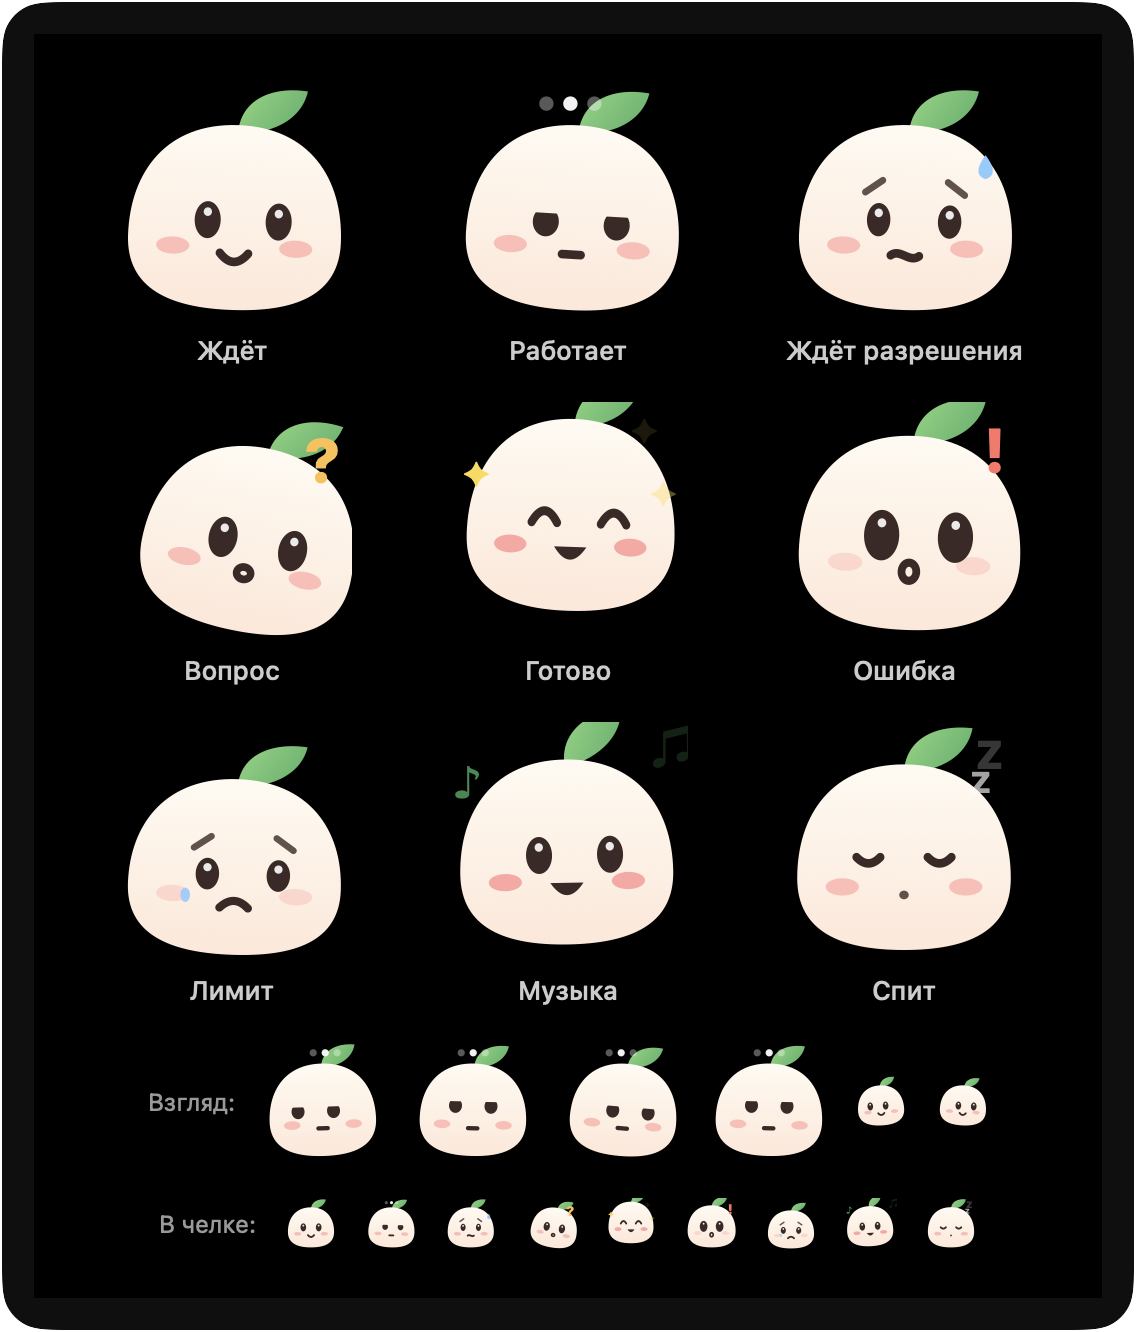
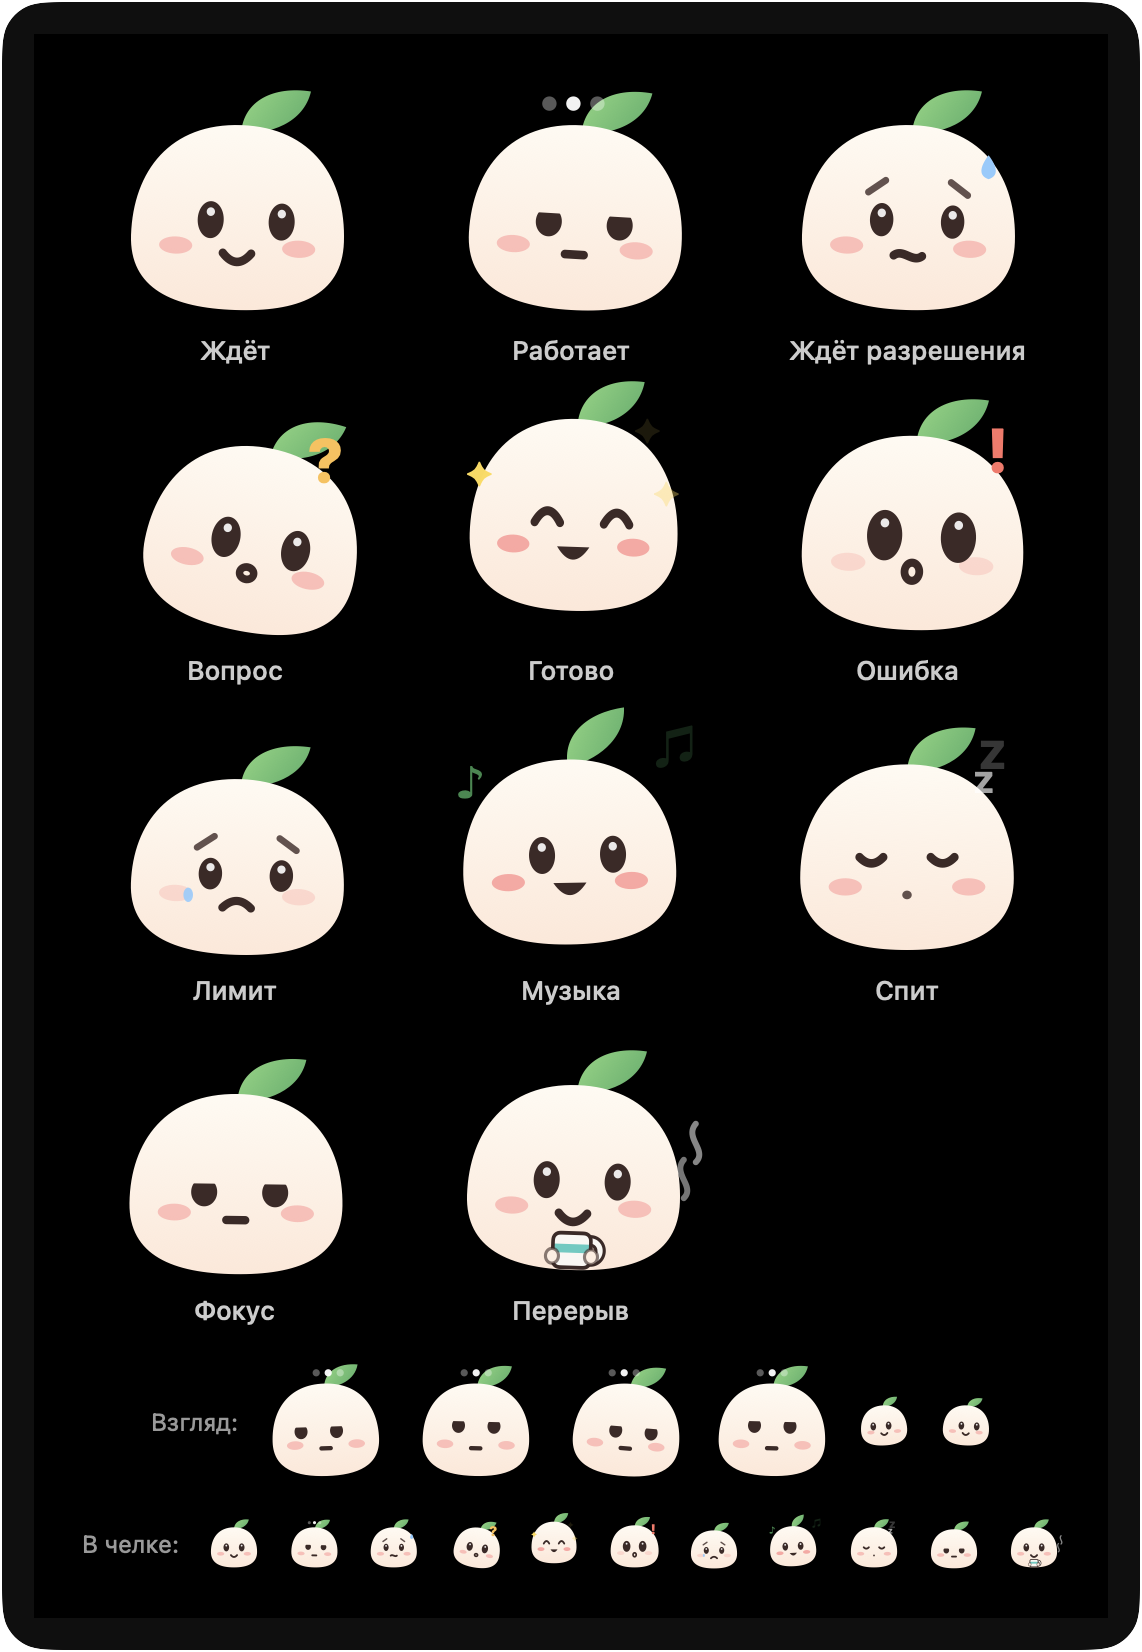
feat(Focus): Позы «Фокус» и «Перерыв»

diff --git a/Sources/MelyUI/Character/MelyCharacter.swift b/Sources/MelyUI/Character/MelyCharacter.swift
@@ -398,6 +398,7 @@ struct CharacterDrawing {
             for slot in [AccessorySlot.neck, .eyes, .head, .held] {
                 if let item = outfit[slot] { AccessoryDrawing.draw(item, pen, r, anchors, t: t) }
             }
+            if pose == .resting { drawMug(pen, r) }
         }
         if dizzy { drawDizzyStars(pen, r) } else { drawExtras(pen, r) }
         if let emote, emote.kind == .party { drawConfetti(pen, r, emote.progress(t)) }
@@ -443,8 +444,8 @@ struct CharacterDrawing {
 
     private func motion() -> Motion {
         var m = Motion()
-        // Leans a little towards the pointer, so a glance reads even when tiny.
-        if pose != .sleeping { m.tilt = 3.3 * clampedGaze.x }
+        // Leans a little towards the pointer, so a glance reads even when tiny; focused, less.
+        if pose != .sleeping { m.tilt = 3.3 * clampedGaze.x * (pose == .focused ? 0.4 : 1) }
         let breath = sin(t * 2 * .pi / (pose == .sleeping ? 4.5 : 3.2))
         m.sy = 1 + 0.03 * breath * (pose == .sleeping ? 1.4 : 1)
         m.sx = 1 - 0.015 * breath
@@ -470,6 +471,20 @@ struct CharacterDrawing {
             m.dy = 0.02
         case .working:
             m.tilt += 1.5 * sin(t * 2 * .pi * 0.5)
+        case .focused:
+            // A slow nod every 9 s: still there, at work.
+            let n = t.truncatingRemainder(dividingBy: 9)
+            if n < 0.9 {
+                let k = sin(n / 0.9 * .pi)
+                m.dy += 0.02 * k
+                m.sy *= 1 - 0.03 * k
+            }
+        case .resting:
+            if stretch > 0 {
+                m.sy *= 1 + 0.09 * stretch
+                m.sx *= 1 - 0.05 * stretch
+                m.dy -= 0.02 * stretch
+            }
         case .idle, .sleeping:
             break
         }
@@ -497,6 +512,34 @@ struct CharacterDrawing {
     }
 
     private var dizzy: Bool { emote?.kind == .dizzy }
+
+    /// On a break, a stretch every 20 s: 0 … 1 … 0 over two seconds.
+    private var stretch: Double {
+        // Halfway through the cycle at t = 0: the first stretch comes a while after the break begins.
+        let s = (t + 10).truncatingRemainder(dividingBy: 20)
+        return s < 2 ? sin(s / 2 * .pi) : 0
+    }
+
+    /// A mug of tea held in front, a band in the rest colour; steam rises in `drawExtras`.
+    private func drawMug(_ pen: Pen, _ r: CGRect) {
+        let lw = r.width * 0.022
+        let cup = Self.rgb(0.98, 0.97, 0.95), band = Self.rgb(0.3, 0.8, 0.76)
+        let body = rect(r, 0.42, 0.8, 0.16, 0.14)
+        var handle = Path()
+        handle.addEllipse(in: rect(r, 0.54, 0.83, 0.08, 0.08))
+        pen.stroke(handle, Self.ink, width: lw * 2.2)
+        pen.stroke(handle, cup, width: lw)
+        let shape = Path(roundedRect: body, cornerRadius: r.width * 0.03)
+        pen.fill(shape, cup)
+        pen.fill(Path(rect(r, 0.42, 0.845, 0.16, 0.035)), band)
+        pen.stroke(shape, Self.ink, width: lw * 0.7)
+        // Paws round the mug.
+        for x in [0.39, 0.555] {
+            let paw = Path(ellipseIn: rect(r, x, 0.865, 0.055, 0.06))
+            pen.fill(paw, Self.rgb(1, 0.93, 0.88))
+            pen.stroke(paw, Self.ink.copy(alpha: 0.6)!, width: lw * 0.6)
+        }
+    }
 
     /// Stars circling over the head.
     private func drawDizzyStars(_ pen: Pen, _ r: CGRect) {
@@ -585,7 +628,8 @@ struct CharacterDrawing {
         switch pose {
         case .happy: .happy
         case .sleeping: .closed
-        case .working: .focused
+        case .working, .focused: .focused
+        case .resting: stretch > 0.3 ? .happy : .open(1)
         case .scared: .open(1.3)
         case .curious: .open(1.1)
         case .sad, .worried: .open(0.9)
@@ -608,6 +652,8 @@ struct CharacterDrawing {
         let g = clampedGaze
         let far = gaze == nil || (abs(g.x) > 0.95 && abs(g.y) > 0.9)
         if pose == .working && far { return CGPoint(x: 0.05 * sin(t * 0.9), y: -0.02) }
+        // Focused: mostly on the work below, a short glance towards the pointer.
+        if pose == .focused { return CGPoint(x: 0.025 * g.x, y: 0.02 + 0.015 * g.y) }
         // Sad eyes stay a little low whatever they look at.
         return CGPoint(x: 0.057 * g.x, y: 0.041 * g.y + (pose == .sad ? 0.02 : 0))
     }
@@ -636,13 +682,13 @@ struct CharacterDrawing {
         case .worried:
             p.move(to: point(r, 0.44, 0.73))
             p.addCurve(to: point(r, 0.56, 0.73), control1: point(r, 0.48, 0.7), control2: point(r, 0.52, 0.76))
-        case .working:
+        case .working, .focused:
             p.move(to: point(r, 0.46, 0.725))
             p.addLine(to: point(r, 0.54, 0.725))
         case .sleeping:
             pen.fill(Path(ellipseIn: rect(r, 0.48, 0.71, 0.04, 0.035)), Self.ink.copy(alpha: 0.8)!)
             return
-        case .idle:
+        case .idle, .resting:
             p = MelyLogo.smile(in: r)
         }
         pen.stroke(p, Self.ink, width: lw)
@@ -693,7 +739,17 @@ struct CharacterDrawing {
             }
         case .scared:
             pen.text("!", size: s * 0.26, weight: .heavy, color: Self.rgb(1.0, 0.45, 0.4), at: point(r, 0.88, 0.2))
-        case .idle:
+        case .resting:
+            // Steam curling up beside the head, against the dark.
+            for k in 0..<2 {
+                let phase = ((t / 2.6) + Double(k) * 0.5).truncatingRemainder(dividingBy: 1)
+                let x = 0.97 + 0.05 * Double(k), y = 0.62 - 0.3 * phase
+                var wisp = Path()
+                wisp.move(to: point(r, x, y + 0.1))
+                wisp.addCurve(to: point(r, x, y - 0.06), control1: point(r, x + 0.05, y + 0.05), control2: point(r, x - 0.05, y))
+                pen.stroke(wisp, Self.rgb(1, 1, 1, 0.7 * sin(phase * .pi)), width: s * 0.025)
+            }
+        case .idle, .focused:
             break
         }
     }

diff --git a/Sources/MelyApp/AppDelegate.swift b/Sources/MelyApp/AppDelegate.swift
@@ -56,17 +56,18 @@ final class AppDelegate: NSObject, NSApplicationDelegate {
         self.sessions = sessions
         let store = sessions.store
         let nowPlaying = nowPlaying
+        let focus = focus
         // Mely out of the notch (task 6.8): the same pose as in the island.
         let desktop = DesktopMelyController(presence: desktopPresence) { model in
             AnyView(WithCharacter(settings: character) {
-                LivePose(sessions: sessions, nowPlaying: nowPlaying) { DesktopMelyFace(model: model, pose: $0) }
+                LivePose(sessions: sessions, nowPlaying: nowPlaying, focus: focus) { DesktopMelyFace(model: model, pose: $0) }
             })
         }
         desktopMely = desktop
         island = IslandWindowController(
             compactLeading: { [nowPlaying, focus] in
                 WithCharacter(settings: character, desktop: desktop) {
-                    LivePose(sessions: sessions, nowPlaying: nowPlaying) { CompactLeading(music: nowPlaying.model, pose: $0, focus: focus.model) }
+                    LivePose(sessions: sessions, nowPlaying: nowPlaying, focus: focus) { CompactLeading(music: nowPlaying.model, pose: $0, focus: focus.model) }
                 }
             },
             compactTrailing: AnyView(CompactSessionStatus(store: store, usage: sessions.usage, music: nowPlaying.model)),
@@ -453,7 +454,7 @@ private struct ExpandedIsland: View {
     var body: some View {
         // Mely big on the left; in the chat it reacts to the answer. A waiting version: «Обновить» under it.
         HStack(alignment: .top, spacing: 12) {
-            LivePose(sessions: sessions, nowPlaying: nowPlaying) { pose in
+            LivePose(sessions: sessions, nowPlaying: nowPlaying, focus: focus) { pose in
                 ChatAwarePose(conversation: tabs.selected == .chat ? chat.conversation : nil,
                               fallback: reminders.celebrating ? TaskCelebration.pose(pose) : pose)
             }
@@ -663,6 +664,7 @@ private struct DesktopMelyFace: View {
 private struct LivePose<Content: View>: View {
     let sessions: ClaudeSessionsController
     let nowPlaying: NowPlayingIntegration
+    let focus: FocusIntegration
     @ViewBuilder let content: (CharacterPose) -> Content
 
     var body: some View {
@@ -673,15 +675,19 @@ private struct LivePose<Content: View>: View {
             pendingApprovals: sessions.queue.requests.filter { !$0.isQuestion }.count,
             pendingQuestions: sessions.queue.requests.filter(\.isQuestion).count,
             musicPlaying: nowPlaying.model.current?.isPlaying == true,
-            planPercent: sessions.usage.usage?.current().fullest?.usedPercent)
+            planPercent: sessions.usage.usage?.current().fullest?.usedPercent,
+            focus: focus.status == .running ? focus.model.timer.mood : nil)
         // Re-read every minute: falling asleep depends on time alone.
         TimelineView(.periodic(from: .now, by: 60)) { context in
-            content(CharacterMood.pose(inputs, now: context.date))
+            let pose = CharacterMood.pose(inputs, now: context.date)
+            // A session just over: glad for a moment.
+            content(focus.celebrating ? TaskCelebration.pose(pose) : pose)
         }
     }
 }
 
-/// A task just done: Mely is glad for a moment, unless something matters more.
+/// A task just done or a focus session over: Mely is glad for a moment, unless something
+/// matters more.
 enum TaskCelebration {
     static func pose(_ pose: CharacterPose) -> CharacterPose {
         switch pose {

diff --git a/Sources/MelyCore/Character/CharacterPose.swift b/Sources/MelyCore/Character/CharacterPose.swift
@@ -20,6 +20,10 @@ public enum CharacterPose: String, CaseIterable, Sendable {
     case dancing
     /// Night, or long without anything: eyes closed, "zZ".
     case sleeping
+    /// A focus session runs: squinting, calm, follows the pointer less, nods now and then.
+    case focused
+    /// A focus break: a mug of tea in the paws, a stretch every so often.
+    case resting
 
     public var title: String {
         switch self {
@@ -32,6 +36,8 @@ public enum CharacterPose: String, CaseIterable, Sendable {
         case .sad: "Лимит"
         case .dancing: "Музыка"
         case .sleeping: "Спит"
+        case .focused: "Фокус"
+        case .resting: "Перерыв"
         }
     }
 }
@@ -46,9 +52,12 @@ public struct CharacterInputs: Sendable {
     public var musicPlaying: Bool
     /// The fuller plan window, 0–100.
     public var planPercent: Double?
+    /// A focus session or its break.
+    public var focus: FocusMood?
 
     public init(sessions: [SessionState] = [], lastActivity: Date? = nil, pendingApprovals: Int = 0,
-                pendingQuestions: Int = 0, musicPlaying: Bool = false, planPercent: Double? = nil) {
+                pendingQuestions: Int = 0, musicPlaying: Bool = false, planPercent: Double? = nil, focus: FocusMood? = nil) {
+        self.focus = focus
         self.sessions = sessions
         self.lastActivity = lastActivity
         self.pendingApprovals = pendingApprovals
@@ -58,12 +67,28 @@ public struct CharacterInputs: Sendable {
     }
 }
 
+/// What of the focus shows in Mely.
+public enum FocusMood: Sendable {
+    case working, resting
+}
+
+public extension FocusTimer {
+    /// Working: focused; on a break: resting. Paused, finished or idle: Mely as usual.
+    var mood: FocusMood? {
+        switch phase {
+        case .working: .working
+        case .onBreak: .resting
+        default: nil
+        }
+    }
+}
+
 public enum CharacterMood {
     /// After this long without anything, Mely dozes off.
     public static let sleepAfter: TimeInterval = 20 * 60
 
-    /// The pose, most urgent first: what needs the user, then what went wrong, then what
-    /// is going on, then rest.
+    /// The pose, most urgent first: what needs the user, then what went wrong, then the
+    /// user's own focus, then what is going on, then rest.
     public static func pose(_ i: CharacterInputs, now: Date = Date(), calendar: Calendar = .current) -> CharacterPose {
         if i.pendingApprovals > 0 || i.sessions.contains(.waitingApproval) { return .worried }
         if i.pendingQuestions > 0 || i.sessions.contains(.waitingAnswer) { return .curious }
@@ -71,6 +96,11 @@ public enum CharacterMood {
         let recent = i.lastActivity.map { now.timeIntervalSince($0) < 5 * 60 } ?? false
         if recent, i.sessions.contains(where: { if case .error = $0 { true } else { false } }) { return .scared }
         if i.sessions.contains(.rateLimited) || (i.planPercent ?? 0) >= 90 { return .sad }
+        switch i.focus {
+        case .working: return .focused
+        case .resting: return .resting
+        case nil: break
+        }
         if i.sessions.contains(where: { if case .finished = $0 { true } else { false } }) { return .happy }
         if i.sessions.contains(.thinking) || i.sessions.contains(.working) { return .working }
         if i.musicPlaying { return .dancing }

diff --git a/Tests/MelyCoreTests/CharacterPoseTests.swift b/Tests/MelyCoreTests/CharacterPoseTests.swift
@@ -29,6 +29,35 @@ import Foundation
         #expect(pose(CharacterInputs(sessions: [.idle], lastActivity: noon)) == .idle)
     }
 
+    @Test func focusOutranksWorkButNotWhatNeedsTheUser() {
+        let noon = at(14)
+        // Focus and Claude working: focused; a permission or a question: as without the focus.
+        #expect(pose(CharacterInputs(sessions: [.working], lastActivity: noon, focus: .working)) == .focused)
+        #expect(pose(CharacterInputs(sessions: [.finished(summary: "")], lastActivity: noon, focus: .working)) == .focused)
+        #expect(pose(CharacterInputs(sessions: [.working], lastActivity: noon, pendingApprovals: 1, focus: .working)) == .worried)
+        #expect(pose(CharacterInputs(sessions: [.waitingAnswer], lastActivity: noon, focus: .working)) == .curious)
+        #expect(pose(CharacterInputs(sessions: [.error("x")], lastActivity: noon, focus: .working)) == .scared)
+        #expect(pose(CharacterInputs(sessions: [.rateLimited], lastActivity: noon, focus: .resting)) == .sad)
+        // Music, sleep: the focus wins.
+        #expect(pose(CharacterInputs(lastActivity: noon, musicPlaying: true, focus: .resting)) == .resting)
+        #expect(pose(CharacterInputs(focus: .working), 1) == .focused)
+    }
+
+    @Test func focusMoodFollowsThePhase() {
+        let now = at(14)
+        var timer = FocusTimer()
+        #expect(timer.mood == nil)
+        timer.start(now: now, duration: 25 * 60)
+        #expect(timer.mood == .working)
+        timer.pause(now: now.addingTimeInterval(60))
+        #expect(timer.mood == nil)
+        timer.resume(now: now.addingTimeInterval(120))
+        timer.tick(now: now.addingTimeInterval(27 * 60), idleSeconds: 0)
+        #expect(timer.mood == nil)
+        timer.takeBreak(now: now.addingTimeInterval(27 * 60), rhythm: FocusRhythm())
+        #expect(timer.mood == .resting)
+    }
+
     @Test func sleepsWhenQuiet() {
         // 20 quiet minutes: asleep, day or night.
         #expect(pose(CharacterInputs(lastActivity: at(14).addingTimeInterval(-25 * 60))) == .sleeping)

diff --git a/Sources/MelyApp/FocusIntegration.swift b/Sources/MelyApp/FocusIntegration.swift
@@ -23,6 +23,9 @@ final class FocusIntegration: Integration {
         get { model.timer }
         set { model.timer = newValue }
     }
+    /// A session just ended: Mely is glad for a moment.
+    private(set) var celebrating = false
+    @ObservationIgnored private var celebration: Task<Void, Never>?
     /// Nil while off: switched off, the integration holds nothing.
     private(set) var log: FocusLog?
     /// A session runs and «Тишина во время фокуса» is on: message previews wait. Paused by
@@ -178,6 +181,7 @@ final class FocusIntegration: Integration {
         case let .finished(worked):
             logger.info("focus finished")
             if settings.playsEndSound { SoundEngine.shared.play(.focusEnd) }
+            celebrate()
             if settings.autoStartsBreak {
                 takeBreak()
                 if timer.phase == .onBreak { show(FocusPeeks.breakStarted(length: timer.breakLength, worked: worked)) }
@@ -202,6 +206,16 @@ final class FocusIntegration: Integration {
             break
         }
         onEvent?(event)
+    }
+
+    private func celebrate() {
+        celebrating = true
+        celebration?.cancel()
+        celebration = Task { [weak self] in
+            try? await Task.sleep(for: .seconds(2.5))
+            guard !Task.isCancelled else { return }
+            self?.celebrating = false
+        }
     }
 
     // MARK: Previews

diff --git a/Sources/MelyUI/Character/Species.swift b/Sources/MelyUI/Character/Species.swift
@@ -75,8 +75,8 @@ extension Species {
     var hasBeak: Bool { false }
     func drawBack(_ c: BodyContext) {}
     func drawFront(_ c: BodyContext) {}
-    /// Asleep, nothing in the paws.
-    func hiddenSlots(_ pose: CharacterPose) -> Set<AccessorySlot> { pose == .sleeping ? [.held] : [] }
+    /// Asleep, nothing in the paws; on a break they hold the mug.
+    func hiddenSlots(_ pose: CharacterPose) -> Set<AccessorySlot> { pose == .sleeping || pose == .resting ? [.held] : [] }
 }
 
 enum SpeciesCatalog {
@@ -235,7 +235,7 @@ struct Lamb: Species {
 
     func hiddenSlots(_ pose: CharacterPose) -> Set<AccessorySlot> {
         // Curled up asleep, the scarf disappears in the wool.
-        pose == .sleeping ? [.held, .neck] : []
+        pose == .sleeping ? [.held, .neck] : pose == .resting ? [.held] : []
     }
 
     private func puffs(_ c: BodyContext) -> [(Double, Double, Double)] {

diff --git a/Sources/MelyUI/Character/Accessories.swift b/Sources/MelyUI/Character/Accessories.swift
@@ -279,6 +279,8 @@ struct MinimalDrawing {
         case .sad: "hourglass"
         case .dancing: "music.note"
         case .sleeping: "moon.fill"
+        case .focused: "scope"
+        case .resting: "cup.and.saucer.fill"
         }
     }
 
@@ -292,6 +294,8 @@ struct MinimalDrawing {
         case .scared: .hex("#F4505E")
         case .sad: .hex("#F59E0B")
         case .dancing: .hex("#EC5B99")
+        case .focused: .hex("#FF7A47")
+        case .resting: .hex("#4DCCC2")
         }
     }
 }

diff --git a/Sources/MelyUI/Character/MelyStage.swift b/Sources/MelyUI/Character/MelyStage.swift
@@ -70,6 +70,8 @@ public struct MelyStage: View {
         case .scared: Color(red: 0.96, green: 0.31, blue: 0.37)
         case .sad: Color(red: 0.96, green: 0.62, blue: 0.04)
         case .dancing: Color(red: 0.93, green: 0.36, blue: 0.6)
+        case .focused: MelyTint.focus
+        case .resting: MelyTint.rest
         case .idle, .sleeping: Color(white: 0.7)
         }
     }
